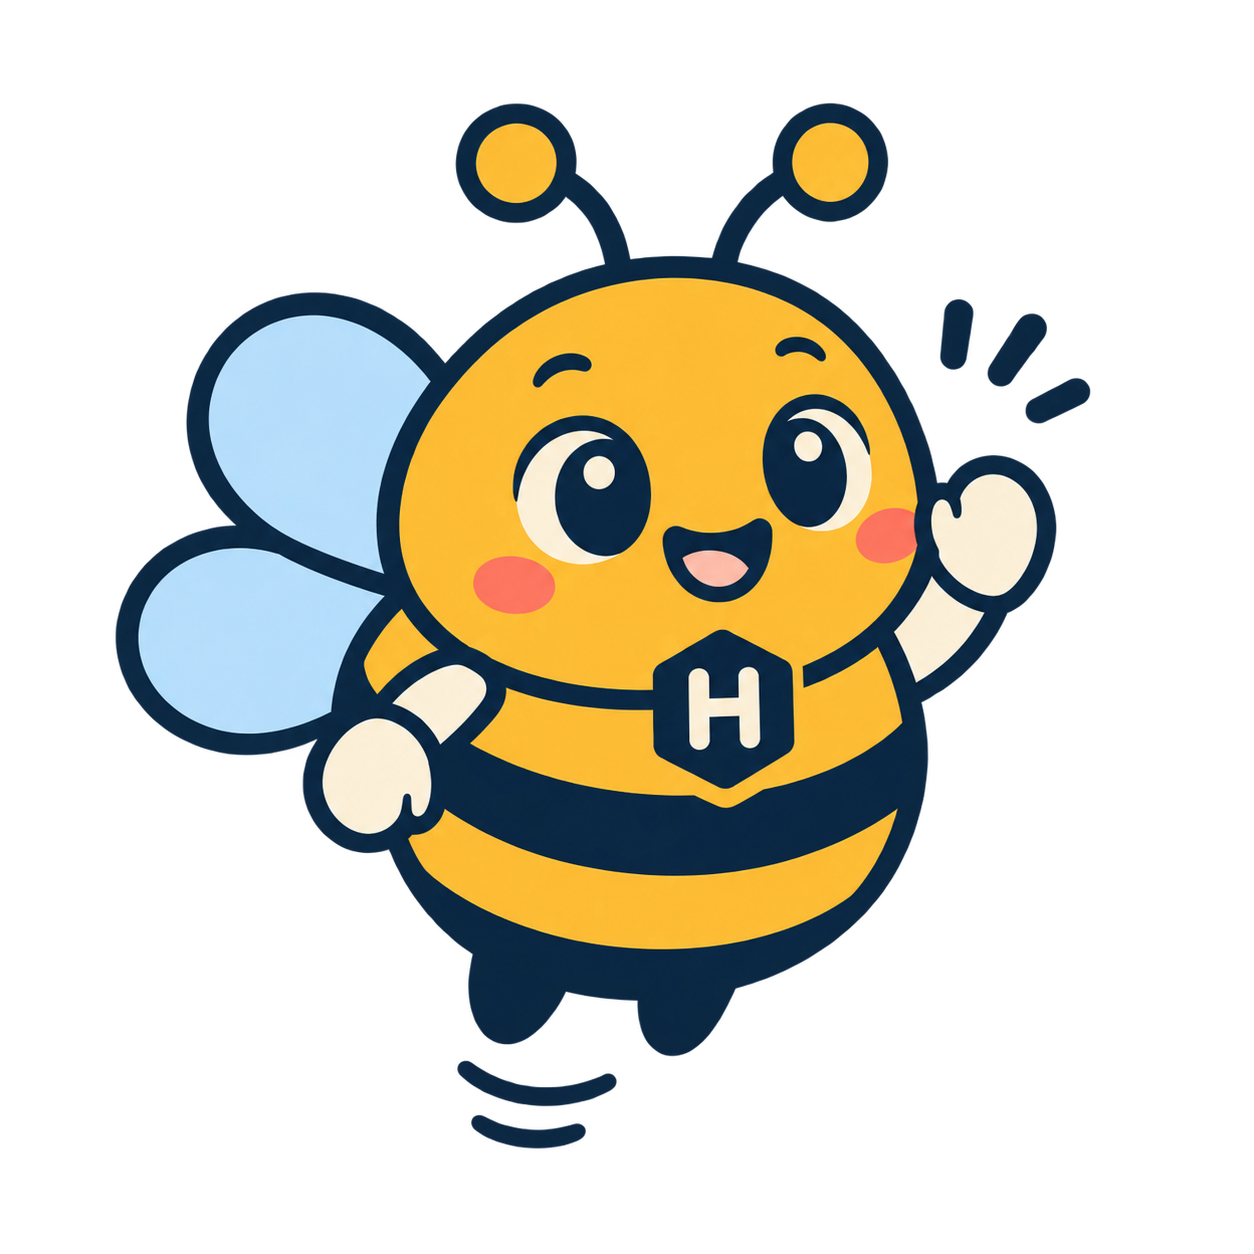
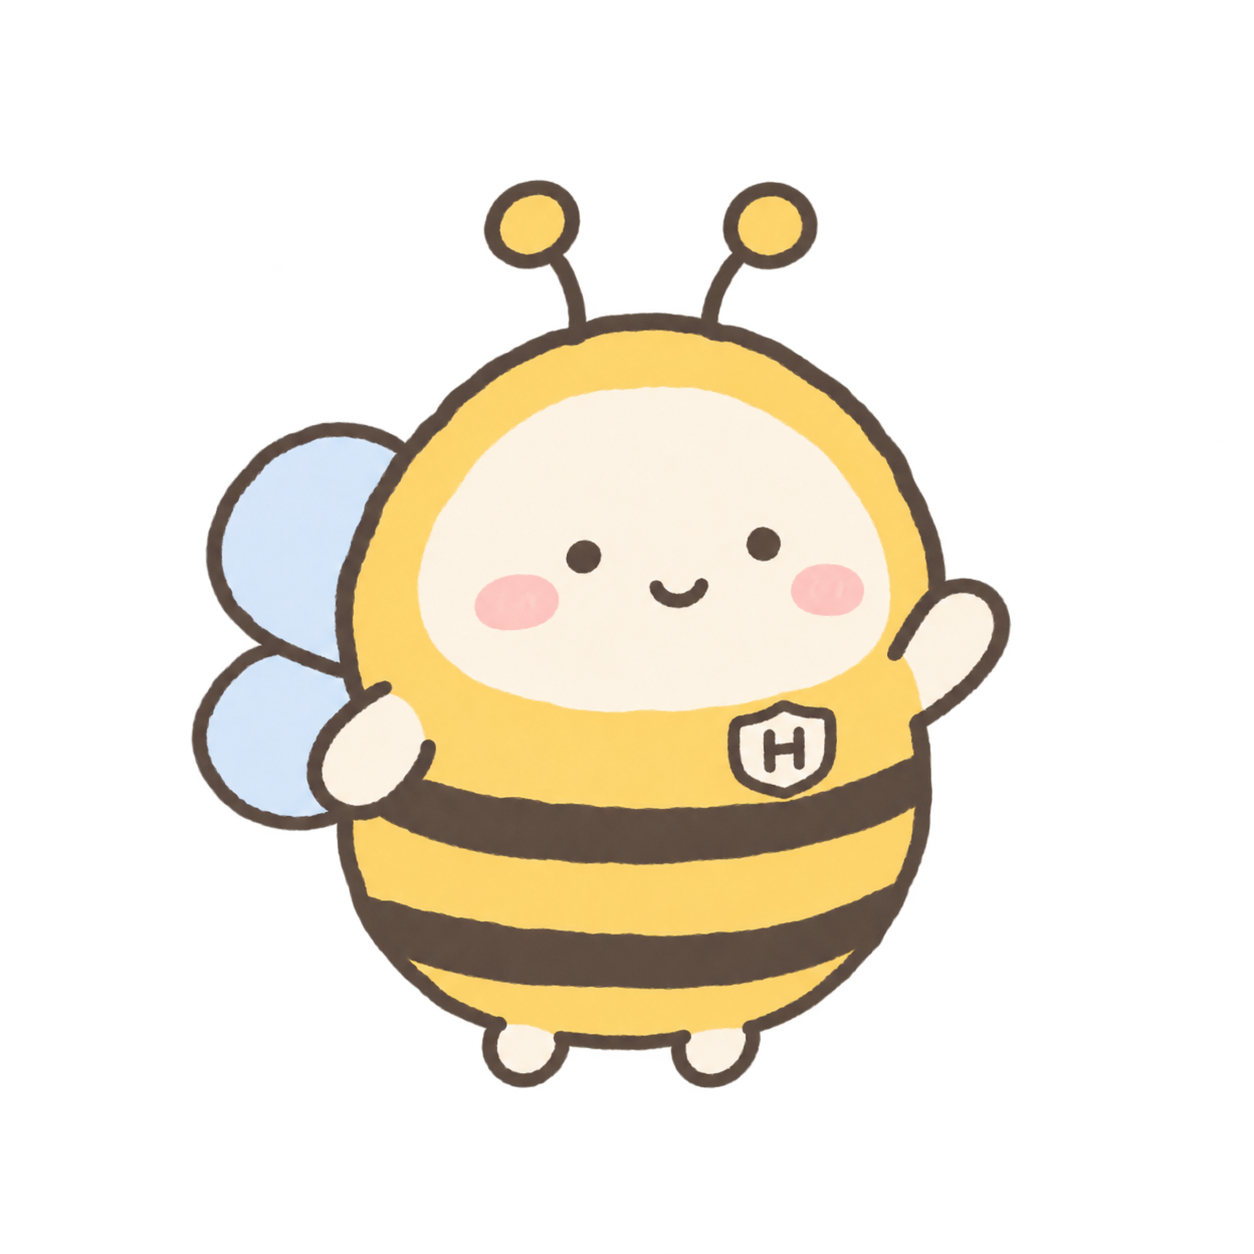
feat: refresh honeybee branding with a hand-drawn mascot and wordmark

diff --git a/apps/dashboard/public/styles.css b/apps/dashboard/public/styles.css
@@ -1,2 +1,2 @@
-:root{--ink:#24354a;--muted:#627287;--blue:#385d8c;--blue-soft:#edf3fa;--line:#dce4ed;--surface:#fff;--canvas:#f4f7fb;--amber:#845b0c;--amber-soft:#fff6df;--danger:#a43b38;--green:#347153;font-family:"Avenir Next","Apple SD Gothic Neo","Malgun Gothic",sans-serif;color:var(--ink);background:var(--canvas);font-size:14px;line-height:1.6}*{box-sizing:border-box}body{margin:0}button,input,textarea{font:inherit}button{cursor:pointer;background:var(--blue);color:white;border:1px solid var(--blue);border-radius:6px;padding:9px 15px;font-weight:600;white-space:nowrap}button:hover{filter:brightness(.94)}button:disabled{cursor:wait;opacity:.55}button.secondary{color:var(--blue);background:white;border-color:#bdccdd}button.danger{color:var(--danger);background:white;border-color:#dcbbb9}input,textarea{width:100%;display:block;border:1px solid #bdccdd;background:white;color:var(--ink);border-radius:5px;padding:10px 12px;margin-top:6px}textarea{resize:vertical}label{display:block;font-weight:600}input:focus-visible,textarea:focus-visible,button:focus-visible,summary:focus-visible,a:focus-visible,pre:focus-visible{outline:3px solid #81a8dc;outline-offset:3px}[hidden]{display:none!important}.skip{position:absolute;top:-100px;left:20px;background:white;padding:12px;z-index:5}.skip:focus{top:10px}.masthead{height:94px;background:#fdfefe;display:flex;justify-content:space-between;align-items:center;padding:0 5vw;border-bottom:1px solid var(--line)}.identity{display:flex;align-items:center;gap:14px}.hive-mark{display:block;width:64px;height:64px;object-fit:contain;flex-shrink:0}.identity strong{display:block;font-size:20px;font-weight:750;letter-spacing:-.5px}.identity span:not(.hive-mark){display:block;color:var(--muted);font-size:12px}.connection{text-align:right;color:var(--muted);font-size:12px}.connection span{display:block}#connection-status{color:var(--green);font-weight:600}.demo-notice{background:#eaf0f8;padding:10px 5vw;display:flex;gap:16px;color:#4b607b;font-size:12px}.demo-notice strong{white-space:nowrap}main{max-width:1500px;padding:34px 5vw 64px;margin:auto}.overview{display:flex;justify-content:space-between;align-items:center;gap:24px;margin-bottom:25px}.context{font-size:12px;color:var(--muted);margin:0 0 5px}h1{font-size:32px;letter-spacing:-1px;line-height:1.25;margin:0;font-weight:750}h2{font-size:19px;line-height:1.4;margin:0}h3{font-size:15px;margin:0 0 8px}h4{font-size:13px;margin:22px 0 8px}.summary-strip{display:flex;gap:30px}.summary-strip div{min-width:60px}.summary-strip strong{display:block;font-size:23px;line-height:1.3;font-weight:650}.summary-strip span{color:var(--muted);font-size:11px}.summary-strip div:last-child strong{font-size:19px;padding-top:5px}.access{margin:0 0 22px;max-width:580px;color:var(--muted);font-size:12px}.access summary{cursor:pointer;width:fit-content}.access form{margin-top:15px;padding:15px;background:white;border:1px solid var(--line);border-radius:6px}.input-action{display:flex;align-items:end;gap:10px}.input-action input{flex:1;min-width:0}.help{color:var(--muted);font-size:12px;margin:7px 0 0;font-weight:400}.error-banner{background:#fff0ee;color:#973a33;border:1px solid #edc5be;padding:12px 16px;border-radius:6px}.workspace{display:grid;grid-template-columns:290px minmax(0,1fr);gap:24px;align-items:start}.task-sidebar{min-width:0}.section-title{display:flex;justify-content:space-between;align-items:center;gap:10px;margin-bottom:15px}.section-title button{padding:5px 11px;font-size:12px}.task-list{display:flex;flex-direction:column;gap:8px;max-height:560px;overflow-y:auto;padding:3px;margin:-3px}.task-choice{background:var(--surface);color:var(--ink);border:1px solid var(--line);border-left:3px solid transparent;text-align:left;padding:15px 14px;border-radius:5px;width:100%;white-space:normal}.task-choice:hover{filter:none;background:#f9fbfe;border-color:#bbcadb}.task-choice.selected{background:var(--blue-soft);border-color:#bdcfe3;border-left-color:var(--blue)}.task-choice strong{display:block;font-size:14px;line-height:1.6;margin-bottom:9px;overflow-wrap:anywhere}.task-choice .task-meta{display:flex;justify-content:space-between;gap:8px;align-items:center}.task-choice small{color:var(--muted);font-size:11px;font-weight:400}.pill{display:inline-block;background:#edf1f6;color:#53667f;border-radius:4px;padding:3px 8px;font-size:11px;font-weight:600;white-space:nowrap}.pill.awaiting_execution_approval,.pill.awaiting_review{background:var(--amber-soft);color:var(--amber)}.pill.running{background:#e4edf9;color:#375f93}.pill.completed{background:#e8f3eb;color:var(--green)}.pill.failed,.pill.rejected{background:#fbeae8;color:var(--danger)}.workers{margin-top:32px;padding-top:20px;border-top:1px solid var(--line)}.worker{padding:10px 0;border-bottom:1px solid var(--line)}.worker strong{font-size:12px;display:block;overflow-wrap:anywhere}.worker p{font-size:11px;color:var(--muted);margin:2px 0 0}.worker .online{color:var(--green)}.worker .stale{color:var(--amber)}.panel{background:white;border:1px solid var(--line);border-radius:9px;padding:30px;min-height:490px;box-shadow:0 3px 16px #293d5710}.panel-heading{display:flex;justify-content:space-between;align-items:start;gap:15px;margin-bottom:15px}.panel-heading h2{font-size:23px;letter-spacing:-.5px;overflow-wrap:anywhere}.panel-heading .context{font-size:11px;overflow-wrap:anywhere}.intro{color:var(--muted);margin:0 0 25px;max-width:65ch}.create-form{display:grid;gap:20px}.create-form .help{margin-top:-12px}.budget-field{max-width:220px}.create-form button{justify-self:start}.instructions{white-space:pre-wrap;overflow-wrap:anywhere;color:#4e6178;line-height:1.9;margin:0 0 24px}.task-facts{display:grid;grid-template-columns:repeat(3,1fr);gap:18px 22px;padding:19px 0;border-block:1px solid var(--line);margin:0 0 25px}.task-facts dt{font-size:11px;color:var(--muted)}.task-facts dd{font-size:13px;margin:4px 0 0;overflow-wrap:anywhere}.decision-panel{padding:19px 20px;background:var(--amber-soft);border:1px solid #efddb5;border-radius:6px;margin-bottom:26px}.decision-panel h3{color:#79550f}.decision-panel p{font-size:12px;color:#806a40;margin:0 0 15px}.decision-panel label{font-size:12px}.decision-panel textarea{background:#fffefa;border-color:#d9caa8}.actions{display:flex;gap:9px;flex-wrap:wrap;margin-top:12px}.actions button{font-size:12px}.result-section{margin-top:25px}#task-summary{white-space:pre-wrap;overflow-wrap:anywhere}.quiet{font-size:11px;color:var(--muted);font-weight:400}h4 .quiet{margin-left:8px}pre{background:#f1f5fa;border:1px solid #e0e7ef;border-radius:5px;padding:18px;color:#354c69;font-family:"SFMono-Regular",Consolas,monospace;font-size:11px;line-height:1.8;overflow:auto;max-height:380px;margin:0}.events-section{margin-top:30px;border-top:1px solid var(--line);padding-top:22px}.event-list{list-style:none;padding:0;margin:0;max-height:360px;overflow:auto}.event-list li{display:grid;grid-template-columns:100px minmax(0,1fr);gap:12px;padding:11px 0;border-bottom:1px solid #edf0f5;font-size:12px}.event-list time{color:var(--muted);font-size:11px}.event-list strong{font-weight:600}.event-list p{margin:3px 0 0;color:var(--muted);white-space:pre-wrap;overflow-wrap:anywhere;font-size:11px}.empty{color:var(--muted);font-size:12px;line-height:1.8;padding:10px 0}.task-list>.empty{padding:20px 12px;border:1px dashed #bdccdd;border-radius:5px}.main-panel{min-width:0}footer{display:flex;justify-content:space-between;gap:20px;border-top:1px solid var(--line);padding:18px 5vw;color:var(--muted);font-size:11px}@media(min-width:1600px){.masthead,.demo-notice,footer{padding-inline:calc((100vw - 1350px)/2)}}@media(max-width:950px){main{padding-inline:25px}.workspace{grid-template-columns:240px minmax(0,1fr);gap:18px}.panel{padding:22px}.summary-strip{gap:18px}.task-facts{grid-template-columns:repeat(2,1fr)}.demo-notice{padding-inline:25px}.masthead{padding-inline:25px}}@media(max-width:700px){.masthead{height:84px;padding-inline:18px}.identity strong{font-size:17px}.hive-mark{width:52px;height:52px}.connection{font-size:10px}.demo-notice{padding:10px 18px;display:block}.demo-notice strong{margin-right:8px}main{padding:26px 18px 40px}.overview{display:block}.summary-strip{margin-top:22px;gap:24px}.summary-strip strong{font-size:21px}.workspace{grid-template-columns:1fr;gap:24px}.task-list{max-height:240px}.workers{margin-top:20px}.worker{display:inline-block;vertical-align:top;min-width:45%;margin-right:4%;border:0}.panel{padding:22px 18px}.panel-heading h2{font-size:20px}.task-facts{gap:15px}.panel-heading{gap:10px}h1{font-size:29px}.event-list li{grid-template-columns:75px minmax(0,1fr)}footer{display:block;padding:16px 18px}footer span{display:block;margin-bottom:5px}.input-action{flex-wrap:wrap}.input-action input{flex-basis:100%}}
+:root{--ink:#24354a;--muted:#627287;--blue:#385d8c;--blue-soft:#edf3fa;--line:#dce4ed;--surface:#fff;--canvas:#f4f7fb;--amber:#845b0c;--amber-soft:#fff6df;--danger:#a43b38;--green:#347153;font-family:"Avenir Next","Apple SD Gothic Neo","Malgun Gothic",sans-serif;color:var(--ink);background:var(--canvas);font-size:14px;line-height:1.6}*{box-sizing:border-box}body{margin:0}button,input,textarea{font:inherit}button{cursor:pointer;background:var(--blue);color:white;border:1px solid var(--blue);border-radius:6px;padding:9px 15px;font-weight:600;white-space:nowrap}button:hover{filter:brightness(.94)}button:disabled{cursor:wait;opacity:.55}button.secondary{color:var(--blue);background:white;border-color:#bdccdd}button.danger{color:var(--danger);background:white;border-color:#dcbbb9}input,textarea{width:100%;display:block;border:1px solid #bdccdd;background:white;color:var(--ink);border-radius:5px;padding:10px 12px;margin-top:6px}textarea{resize:vertical}label{display:block;font-weight:600}input:focus-visible,textarea:focus-visible,button:focus-visible,summary:focus-visible,a:focus-visible,pre:focus-visible{outline:3px solid #81a8dc;outline-offset:3px}[hidden]{display:none!important}.skip{position:absolute;top:-100px;left:20px;background:white;padding:12px;z-index:5}.skip:focus{top:10px}.masthead{height:94px;background:#fdfefe;display:flex;justify-content:space-between;align-items:center;padding:0 5vw;border-bottom:1px solid var(--line)}.identity{display:flex;flex-direction:column;align-items:flex-start;gap:0;min-width:0}.brand-logo{display:block;width:240px;height:70px;object-fit:contain;object-position:left center}.identity strong{display:block;font-size:20px;font-weight:750;letter-spacing:-.5px}.identity span{display:block;color:var(--muted);font-size:11px;line-height:1.3}.connection{text-align:right;color:var(--muted);font-size:12px}.connection span{display:block}#connection-status{color:var(--green);font-weight:600}.demo-notice{background:#eaf0f8;padding:10px 5vw;display:flex;gap:16px;color:#4b607b;font-size:12px}.demo-notice strong{white-space:nowrap}main{max-width:1500px;padding:34px 5vw 64px;margin:auto}.overview{display:flex;justify-content:space-between;align-items:center;gap:24px;margin-bottom:25px}.context{font-size:12px;color:var(--muted);margin:0 0 5px}h1{font-size:32px;letter-spacing:-1px;line-height:1.25;margin:0;font-weight:750}h2{font-size:19px;line-height:1.4;margin:0}h3{font-size:15px;margin:0 0 8px}h4{font-size:13px;margin:22px 0 8px}.summary-strip{display:flex;gap:30px}.summary-strip div{min-width:60px}.summary-strip strong{display:block;font-size:23px;line-height:1.3;font-weight:650}.summary-strip span{color:var(--muted);font-size:11px}.summary-strip div:last-child strong{font-size:19px;padding-top:5px}.access{margin:0 0 22px;max-width:580px;color:var(--muted);font-size:12px}.access summary{cursor:pointer;width:fit-content}.access form{margin-top:15px;padding:15px;background:white;border:1px solid var(--line);border-radius:6px}.input-action{display:flex;align-items:end;gap:10px}.input-action input{flex:1;min-width:0}.help{color:var(--muted);font-size:12px;margin:7px 0 0;font-weight:400}.error-banner{background:#fff0ee;color:#973a33;border:1px solid #edc5be;padding:12px 16px;border-radius:6px}.workspace{display:grid;grid-template-columns:290px minmax(0,1fr);gap:24px;align-items:start}.task-sidebar{min-width:0}.section-title{display:flex;justify-content:space-between;align-items:center;gap:10px;margin-bottom:15px}.section-title button{padding:5px 11px;font-size:12px}.task-list{display:flex;flex-direction:column;gap:8px;max-height:560px;overflow-y:auto;padding:3px;margin:-3px}.task-choice{background:var(--surface);color:var(--ink);border:1px solid var(--line);border-left:3px solid transparent;text-align:left;padding:15px 14px;border-radius:5px;width:100%;white-space:normal}.task-choice:hover{filter:none;background:#f9fbfe;border-color:#bbcadb}.task-choice.selected{background:var(--blue-soft);border-color:#bdcfe3;border-left-color:var(--blue)}.task-choice strong{display:block;font-size:14px;line-height:1.6;margin-bottom:9px;overflow-wrap:anywhere}.task-choice .task-meta{display:flex;justify-content:space-between;gap:8px;align-items:center}.task-choice small{color:var(--muted);font-size:11px;font-weight:400}.pill{display:inline-block;background:#edf1f6;color:#53667f;border-radius:4px;padding:3px 8px;font-size:11px;font-weight:600;white-space:nowrap}.pill.awaiting_execution_approval,.pill.awaiting_review{background:var(--amber-soft);color:var(--amber)}.pill.running{background:#e4edf9;color:#375f93}.pill.completed{background:#e8f3eb;color:var(--green)}.pill.failed,.pill.rejected{background:#fbeae8;color:var(--danger)}.workers{margin-top:32px;padding-top:20px;border-top:1px solid var(--line)}.worker{padding:10px 0;border-bottom:1px solid var(--line)}.worker strong{font-size:12px;display:block;overflow-wrap:anywhere}.worker p{font-size:11px;color:var(--muted);margin:2px 0 0}.worker .online{color:var(--green)}.worker .stale{color:var(--amber)}.panel{background:white;border:1px solid var(--line);border-radius:9px;padding:30px;min-height:490px;box-shadow:0 3px 16px #293d5710}.panel-heading{display:flex;justify-content:space-between;align-items:start;gap:15px;margin-bottom:15px}.panel-heading h2{font-size:23px;letter-spacing:-.5px;overflow-wrap:anywhere}.panel-heading .context{font-size:11px;overflow-wrap:anywhere}.intro{color:var(--muted);margin:0 0 25px;max-width:65ch}.create-form{display:grid;gap:20px}.create-form .help{margin-top:-12px}.budget-field{max-width:220px}.create-form button{justify-self:start}.instructions{white-space:pre-wrap;overflow-wrap:anywhere;color:#4e6178;line-height:1.9;margin:0 0 24px}.task-facts{display:grid;grid-template-columns:repeat(3,1fr);gap:18px 22px;padding:19px 0;border-block:1px solid var(--line);margin:0 0 25px}.task-facts dt{font-size:11px;color:var(--muted)}.task-facts dd{font-size:13px;margin:4px 0 0;overflow-wrap:anywhere}.decision-panel{padding:19px 20px;background:var(--amber-soft);border:1px solid #efddb5;border-radius:6px;margin-bottom:26px}.decision-panel h3{color:#79550f}.decision-panel p{font-size:12px;color:#806a40;margin:0 0 15px}.decision-panel label{font-size:12px}.decision-panel textarea{background:#fffefa;border-color:#d9caa8}.actions{display:flex;gap:9px;flex-wrap:wrap;margin-top:12px}.actions button{font-size:12px}.result-section{margin-top:25px}#task-summary{white-space:pre-wrap;overflow-wrap:anywhere}.quiet{font-size:11px;color:var(--muted);font-weight:400}h4 .quiet{margin-left:8px}pre{background:#f1f5fa;border:1px solid #e0e7ef;border-radius:5px;padding:18px;color:#354c69;font-family:"SFMono-Regular",Consolas,monospace;font-size:11px;line-height:1.8;overflow:auto;max-height:380px;margin:0}.events-section{margin-top:30px;border-top:1px solid var(--line);padding-top:22px}.event-list{list-style:none;padding:0;margin:0;max-height:360px;overflow:auto}.event-list li{display:grid;grid-template-columns:100px minmax(0,1fr);gap:12px;padding:11px 0;border-bottom:1px solid #edf0f5;font-size:12px}.event-list time{color:var(--muted);font-size:11px}.event-list strong{font-weight:600}.event-list p{margin:3px 0 0;color:var(--muted);white-space:pre-wrap;overflow-wrap:anywhere;font-size:11px}.empty{color:var(--muted);font-size:12px;line-height:1.8;padding:10px 0}.task-list>.empty{padding:20px 12px;border:1px dashed #bdccdd;border-radius:5px}.main-panel{min-width:0}footer{display:flex;justify-content:space-between;gap:20px;border-top:1px solid var(--line);padding:18px 5vw;color:var(--muted);font-size:11px}@media(min-width:1600px){.masthead,.demo-notice,footer{padding-inline:calc((100vw - 1350px)/2)}}@media(max-width:950px){main{padding-inline:25px}.workspace{grid-template-columns:240px minmax(0,1fr);gap:18px}.panel{padding:22px}.summary-strip{gap:18px}.task-facts{grid-template-columns:repeat(2,1fr)}.demo-notice{padding-inline:25px}.masthead{padding-inline:25px}}@media(max-width:700px){.masthead{height:84px;padding-inline:18px}.identity strong{font-size:17px}.brand-logo{width:200px;height:58px}.identity span{font-size:10px}.connection{font-size:10px}.demo-notice{padding:10px 18px;display:block}.demo-notice strong{margin-right:8px}main{padding:26px 18px 40px}.overview{display:block}.summary-strip{margin-top:22px;gap:24px}.summary-strip strong{font-size:21px}.workspace{grid-template-columns:1fr;gap:24px}.task-list{max-height:240px}.workers{margin-top:20px}.worker{display:inline-block;vertical-align:top;min-width:45%;margin-right:4%;border:0}.panel{padding:22px 18px}.panel-heading h2{font-size:20px}.task-facts{gap:15px}.panel-heading{gap:10px}h1{font-size:29px}.event-list li{grid-template-columns:75px minmax(0,1fr)}footer{display:block;padding:16px 18px}footer span{display:block;margin-bottom:5px}.input-action{flex-wrap:wrap}.input-action input{flex-basis:100%}}
 select{font:inherit;width:100%;display:block;border:1px solid #bdccdd;background:white;color:var(--ink);border-radius:5px;padding:10px 12px;margin-top:6px}select:focus-visible{outline:3px solid #81a8dc;outline-offset:3px}select:disabled{opacity:.65}.repository-context{border-left:3px solid #bdcfe3;padding-left:14px;margin-top:-10px}.repository-context .help{margin:0}.repository-facts{display:grid;grid-template-columns:repeat(2,minmax(0,1fr));gap:14px 22px;margin:16px 0}.repository-facts dt{font-size:11px;color:var(--muted)}.repository-facts dd{font-size:12px;margin:3px 0 0;overflow-wrap:anywhere;white-space:pre-wrap}.repository-facts .wide{grid-column:1/-1}.execution-section{margin-top:30px;border-top:1px solid var(--line);padding-top:22px}.execution-section>.section-title{align-items:flex-start}.execution-section pre{max-height:280px}.process-evidence{margin-top:22px;padding-top:18px;border-top:1px solid var(--line)}.process-evidence .section-title{margin-bottom:9px}.process-evidence h4{margin:12px 0 7px}.process-evidence .section-title h4{margin:0}.process-metadata{font-size:12px;color:var(--muted);overflow-wrap:anywhere;white-space:pre-wrap;margin:0 0 12px}.process-evidence summary{cursor:pointer;color:var(--blue);font-size:12px;margin:12px 0}.pill.process-passed{background:#e8f3eb;color:var(--green)}.pill.process-failed,.pill.process-timed_out,.pill.process-error{background:#fbeae8;color:var(--danger)}.pill.process-not_run,.pill.process-pending{background:#edf1f6;color:#53667f}.evidence-warning{font-size:12px;color:var(--amber);background:var(--amber-soft);border:1px solid #efddb5;border-radius:5px;padding:9px 12px;margin:9px 0}.summary-strip #cost-total-label{display:block;max-width:160px}@media(max-width:700px){.repository-facts{grid-template-columns:1fr}.execution-section>.section-title{flex-wrap:wrap}.summary-strip{gap:18px}.summary-strip #cost-total-label{max-width:135px}.repository-context{padding-left:11px}}

diff --git a/apps/dashboard/public/index.html b/apps/dashboard/public/index.html
@@ -12,7 +12,7 @@
 <body>
   <a class="skip" href="#workspace">작업 내용으로 이동</a>
   <header class="masthead">
-    <div class="identity"><img class="hive-mark" src="/brand/hivemind-bee.png" alt="" width="64" height="64"><div><strong>Project HIVEMIND</strong><span>One Vision. Many Agents.</span></div></div>
+    <div class="identity"><img class="brand-logo" src="/brand/hivemind-logo.png" alt="Project HIVEMIND — 손그림 꿀벌 로고" width="240" height="80"><span>One Vision. Many Agents.</span></div>
     <div class="connection"><span id="connection-status" role="status">연결 대기</span><span id="last-sync">아직 동기화하지 않음</span></div>
   </header>
   <div class="demo-notice"><strong>로컬 실행</strong><span>Codex 작업은 지정한 저장소의 Git worktree에서 실행합니다. mock 작업은 합성 diff와 모의 비용을 사용합니다.</span></div>

diff --git a/README.md b/README.md
@@ -1,7 +1,7 @@
 # Project HIVEMIND
 
 <p align="center">
-  <img src="apps/dashboard/public/brand/hivemind-logo.png" alt="Project HIVEMIND — 손을 흔드는 꿀벌 캐릭터 로고" width="720">
+  <img src="apps/dashboard/public/brand/hivemind-logo.png" alt="Project HIVEMIND — 심플한 손그림 꿀벌과 손글씨 로고" width="720">
 </p>
 
 **One Vision. Many Agents.**
